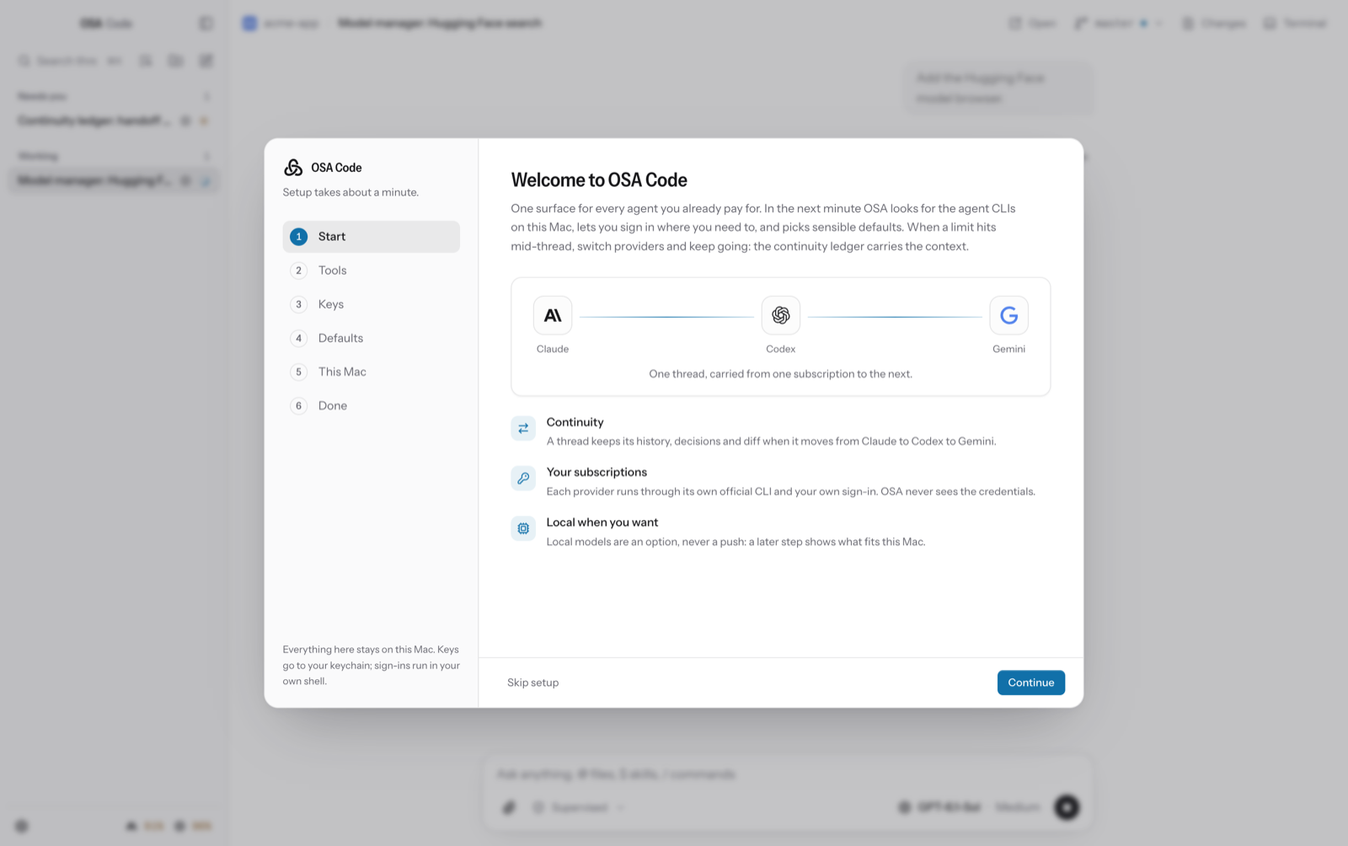
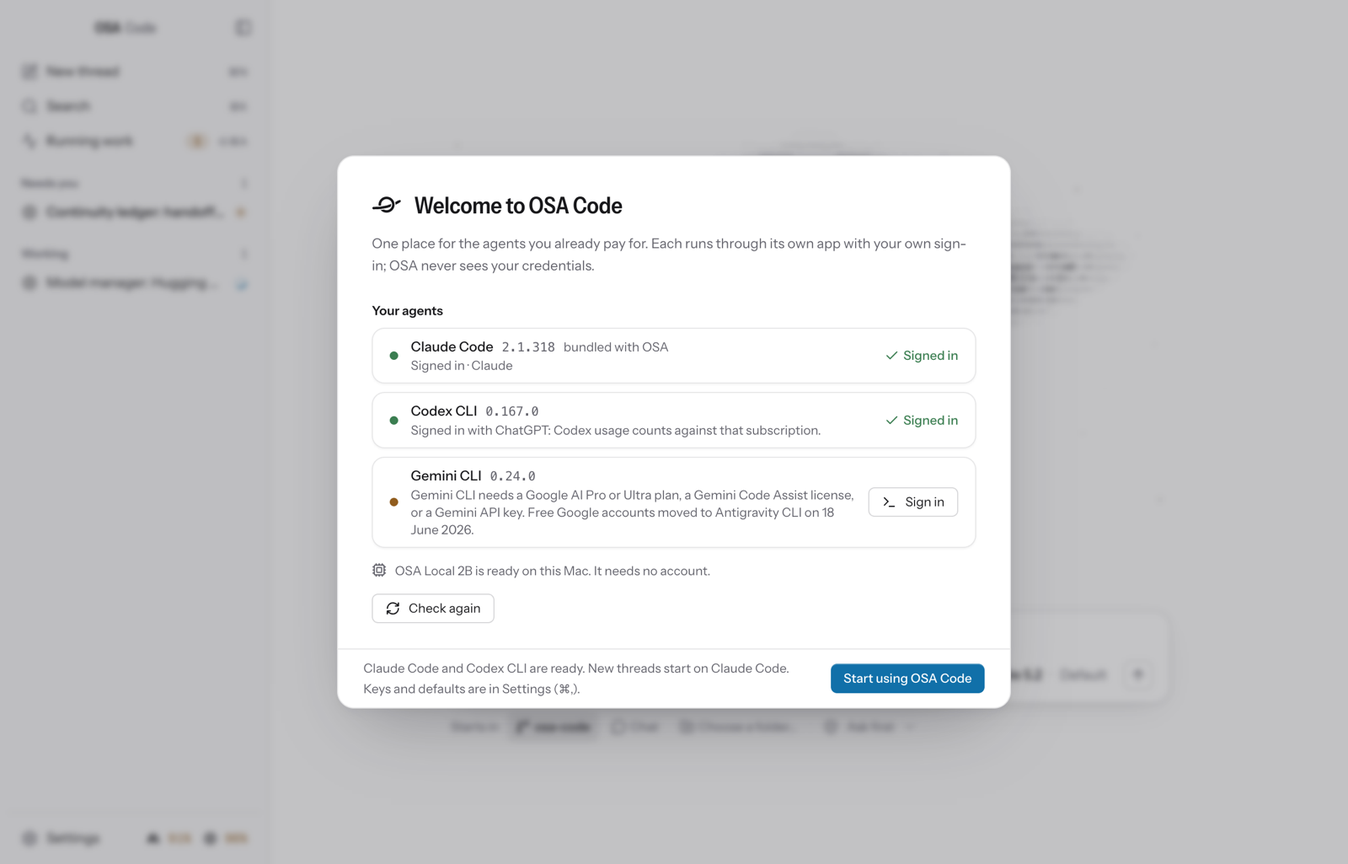
README for 0.5.0: two interfaces, the black-hole launch, chat with search and deep research, dictation, Running work, review, permissions, the browser and screen tools, privacy; thirty images in light and dark

diff --git a/README.md b/README.md
@@ -1,29 +1,44 @@
 # OSA Code
 
-One Mac app for the AI coding agents you already pay for, plus local models, with one continuity ledger that moves a thread to the next provider when a limit hits.
+One Mac app for the AI agents you already pay for (Claude Code, Codex and Gemini CLI) and for models that run on your Mac. Use it for code in a project folder or as an everyday chat. When one subscription hits its limit, the thread carries on with the next.
 
-OSA Code runs the official harnesses under your own sign-ins (Claude Code, Codex, Gemini CLI and other ACP agents) and its own agent for local models. Every thread keeps a ledger of the task, the decisions, the files touched and the plan, so when one subscription runs out the next provider picks up from where it stopped. For Apple silicon Macs on macOS 14 or newer.
+OSA Code runs each provider's own harness under your own sign-in, and its own agent for local models. Every thread keeps a ledger of the task, the decisions, the files touched and the plan, and that ledger is what moves with a thread when it changes provider. For Apple silicon Macs on macOS 14 or newer. It is an early developer build, and it is unsigned.
 
 <p align="center">
 <picture>
   <source media="(prefers-color-scheme: dark)" srcset="docs/assets/readme/newthread-dark.png">
-  <img src="docs/assets/readme/newthread-light.png" alt="The New thread screen: OSA Code's mark, Choose a folder and New chat, a recent project, and the composer ready on Opus 5.5." width="100%">
+  <img src="docs/assets/readme/newthread-light.png" alt="The New thread screen: OSA Code's black hole drawn in text, the message box under it on Fable 5.2, and one line that says where the message will start: a project, Chat, or Choose a folder." width="100%">
 </picture>
 </p>
 
-## Features
+## What it does
 
-- **Every subscription, one surface.** Claude Code, Codex, Gemini and any Agent Client Protocol agent, with usage meters per subscription and a fallback order. A thread moves between them with a handoff packet built from its ledger.
-- **OSA Local 2B and other local models.** The default local model downloads itself when the Mac can run it; a Hugging Face browser says what fits before you download anything else.
-- **Threads and chats.** Projects or folder-free chats, plan mode, edit and retry with versions, fork, search, Rules for permission cards, and a repository map.
-- **Documents.** Word, Excel, PowerPoint and PDF files made in any thread, on any provider, with Open and Preview.
-- **Computer use.** A thread can work inside Mac apps without taking your mouse or keyboard, after you allow each app.
-- **Browser (your Chrome).** Threads browse in a window of their own inside your Chrome: your sign-ins work, and the agent sees only its own tabs.
+- **Every subscription in one place.** Claude Code, Codex and Gemini CLI, with a usage meter for each and a fallback order. A thread moves between them with a handoff packet built from its ledger.
+- **Two interfaces.** Classic has the sidebar on the left and one thread at a time. Workbench has a tab for each open thread and a Home page. Switch in Settings, in the View menu or in ⌘K.
+- **An everyday chat.** A chat needs no folder. It searches the web when a question needs it, lists its sources, and can run deep research: a plan first, then a cited report.
+- **Projects.** Worktrees, checkpoints and diffs, plan mode, review comments on the diff, Revert File, a terminal, git and pull requests.
+- **Running work.** One page for every thread that needs you, is working, hit a limit or just finished.
+- **Permissions you can shape.** Answer a card once, for the session, or with a rule you see before it is saved. Decline with a reason the agent reads.
+- **Dictation** on macOS 26 or newer, turned into text on your Mac.
+- **Local models.** OSA Local 2B downloads itself when the Mac can run it, and a Hugging Face browser says what fits before you download anything else.
+- **Documents.** Word, Excel, PowerPoint and PDF files made in any thread, on any provider.
+- **Computer use and your Chrome.** A thread can work inside Mac apps and in a Chrome window of its own, after you allow it.
 
 <table>
 <tr>
-<td width="50%"><picture><source media="(prefers-color-scheme: dark)" srcset="docs/assets/readme/thread-dark.png"><img src="docs/assets/readme/thread-light.png" alt="A thread that moved from Claude to Codex when Claude hit its usage limit: the handoff line, the tool calls, and a card asking to run a command."></picture></td>
-<td width="50%"><picture><source media="(prefers-color-scheme: dark)" srcset="docs/assets/readme/picker-dark.png"><img src="docs/assets/readme/picker-light.png" alt="The model picker: Claude's and Codex's models with a line on each, and Manage models at the bottom."></picture></td>
+<td width="50%"><picture><source media="(prefers-color-scheme: dark)" srcset="docs/assets/readme/thread-dark.png"><img src="docs/assets/readme/thread-light.png" alt="A thread that moved from Claude to Codex when Claude hit its usage limit: the handoff line, a file written, and a card asking to run a command with Allow once, Allow this session, Always allow and Decline."></picture></td>
+<td width="50%"><picture><source media="(prefers-color-scheme: dark)" srcset="docs/assets/readme/picker-dark.png"><img src="docs/assets/readme/picker-light.png" alt="The model picker: a search field, a rail with Claude, Codex, Gemini and Local, and Codex's models, each with what it is for, the chosen one checked."></picture></td>
+</tr>
+</table>
+
+## Two interfaces
+
+Classic is the default. Workbench puts a tab for each open thread along the top, with Home on the left of the strip and Running work on the right. Home is one column: a search, your projects, the threads that need you (a command can be answered right there), the ones you pinned, and the rest. Tabs come back after a restart. Choose in **Settings → General → Appearance → Interface**, in **View → Interface**, or in ⌘K. Switching keeps the open thread, its scroll position and what you have typed.
+
+<table>
+<tr>
+<td width="50%"><picture><source media="(prefers-color-scheme: dark)" srcset="docs/assets/readme/workbench-home-dark.png"><img src="docs/assets/readme/workbench-home-light.png" alt="Workbench's Home: a search, two projects, a thread that needs you with Allow once, Allow this session and Decline, a pinned thread and four recent ones."></picture></td>
+<td width="50%"><picture><source media="(prefers-color-scheme: dark)" srcset="docs/assets/readme/workbench-thread-dark.png"><img src="docs/assets/readme/workbench-thread-light.png" alt="A thread in Workbench: three tabs along the top, the first waiting on a card, and a quiet line at the foot with the context and the weekly usage."></picture></td>
 </tr>
 </table>
 
@@ -34,14 +49,14 @@ OSA Code runs the official harnesses under your own sign-ins (Claude Code, Codex
    ```bash
    xattr -d com.apple.quarantine "/Applications/OSA Code.app"
    ```
-3. The setup wizard finds the agent CLIs on your PATH (`claude`, `codex`, `gemini`, …), lets you sign in to each from a built-in terminal, takes API keys if you use them, and suggests local models that fit your Mac.
+3. Setup is one screen. It lists the three agents OSA runs (`claude`, `codex`, `gemini`), says what is true of each on this Mac, and gives each one thing to do: Sign in, Install, or the vendor's install page. Then Start. API keys, the fallback order and local models are in Settings.
 
-Release notes: [0.4.0](https://github.com/devartin/osa-code-releases/releases/tag/v0.4.0).
+Release notes: [0.5.0](https://github.com/devartin/osa-code-releases/releases/tag/v0.5.0). Earlier releases: [0.4.0](https://github.com/devartin/osa-code-releases/releases/tag/v0.4.0), [0.3.0](https://github.com/devartin/osa-code-releases/releases/tag/v0.3.0).
 
 <p align="center">
 <picture>
   <source media="(prefers-color-scheme: dark)" srcset="docs/assets/readme/onboarding-dark.png">
-  <img src="docs/assets/readme/onboarding-light.png" alt="The setup wizard's first step: Claude, Codex and Gemini, and what continuity, your subscriptions and local models mean in OSA." width="80%">
+  <img src="docs/assets/readme/onboarding-light.png" alt="Setup on one screen: Claude Code and Codex CLI signed in, Gemini CLI with a Sign in button, a line saying OSA Local 2B is ready, Check again, and Start using OSA Code." width="80%">
 </picture>
 </p>
 
@@ -51,40 +66,77 @@ OSA Code updates itself: it checks the [releases](https://github.com/devartin/os
 
 ## Providers and subscriptions
 
-- **Claude** runs through Claude Code itself: the copy bundled with OSA or your own install, whichever is newer and signed in (a tie goes to your install), with your own Claude Code sign-in or an API key. On the sign-in, usage draws from your Claude subscription limits. Settings → Providers says which copy runs; OSA never downloads or updates Claude Code.
+- **Claude** runs through Claude Code itself: the copy bundled with OSA or your own install, whichever is newer and signed in (a tie goes to your install). Your Claude subscription is the recommended sign-in and the one a new install starts on, and usage then draws from its limits. An API key is the other choice: one set in your shell is not used, or billed, unless you choose "An API key" in Settings → Providers. Settings → Providers says which copy runs and who pays. OSA never downloads or updates Claude Code.
 - **Codex** runs through `codex app-server` and your own `codex login`.
-- **Gemini CLI** and other agents that speak the Agent Client Protocol run as they are installed.
+- **Gemini CLI** runs as it is installed, through the Agent Client Protocol, with the sign-in you already set up for it. Gemini CLI itself decides who may sign in; Settings → Providers says what it needs.
 - **Fallback.** Settings sets the order. When a subscription hits its limit, the thread continues on the next one with a handoff packet: the task, the decisions, the files touched, the diff since the last checkpoint and the remaining plan.
-- **Usage** is counted per turn and per subscription, and says "not reported" rather than zero.
+- **Usage** is counted per turn and per subscription, and says "not reported" rather than zero. A gauge in the menu bar lists each provider's limits and when they reset; Settings → General → On your Mac turns it off.
 
-## Threads and chats
+## Chat, search and deep research
 
-- **New thread** starts in a project folder or as a chat with no folder. A chat gets the same thread view, streaming, usage and handoff. Git, Changes, worktrees, checkpoints, plan mode, the repository map and the after-edit check need a folder, so they are off in a chat.
-- **In a project:** plan mode has the agent plan first and wait for your go before it edits anything, and the repository map gives the agent an outline of the project.
-- **Rules** (Settings → Rules) answer permission cards by tool and path, and run commands after edits.
-- **Edit and retry** an earlier message on the same model or another; earlier versions stay one click away.
-- **Fork** copies a thread up to any answer into a thread of its own.
-- **Search (⇧⌘F)** finds words in every thread on this Mac, and **⌘K** finds threads and runs commands.
-- **Model and level** (⌘E, ⇧⌘E). Levels OSA cannot yet confirm are marked unverified.
-- Worktrees per thread, checkpoints and diffs, a terminal, git and pull requests, skills and slash commands from every harness, attachments, KaTeX math and Mermaid diagrams, and MCP connectors.
+- **A chat starts as a conversation.** It is in Chat only, and acts on your Mac only when you switch its mode on the thread's label.
+- **Search is built in.** A chat on Claude or Codex searches the web when the question needs it, and each chat has its own switch in the **+** menu. Gemini CLI searches on its own. A local model cannot search, and says so.
+- **Sources.** An answer that cites pages ends in a "Sources" row with each page's title and site, and says which ones the turn opened.
+- **Deep research** (the **+** menu, or `/research`). Your next message gets a plan and a card that says what a run may use. Nothing is searched or spent until you press Start research. A run works in its own session, shows its searches and pages as it goes, stops at its budget, and ends in a cited report you can save as Markdown. It runs on Claude only.
+- **Continue in Chat** and **Continue in Project…** carry a conversation from a project into a chat or the other way, as a new thread.
 
 <table>
 <tr>
-<td width="50%"><picture><source media="(prefers-color-scheme: dark)" srcset="docs/assets/readme/changes-dark.png"><img src="docs/assets/readme/changes-light.png" alt="The Changes panel: the thread's edits to two files as a diff against its last checkpoint."></picture></td>
+<td width="50%"><picture><source media="(prefers-color-scheme: dark)" srcset="docs/assets/readme/sources-dark.png"><img src="docs/assets/readme/sources-light.png" alt="A chat that searched once and read one page: the answer with numbered markers, and a Sources row listing three pages, one marked from search results and one not opened here."></picture></td>
+<td width="50%"><picture><source media="(prefers-color-scheme: dark)" srcset="docs/assets/readme/research-dark.png"><img src="docs/assets/readme/research-light.png" alt="A deep research report in a chat: headed sections with source markers, a Sources row, a line with the time, searches, pages and tokens, and Save as Markdown."></picture></td>
+</tr>
+</table>
+
+## Threads and projects
+
+- **New thread** has one message box and one line under it that says where the message will go: a recent project, Chat, or a folder you choose. Git, Changes, worktrees, checkpoints, plan mode, the repository map and the after-edit check need a folder, so they are off in a chat.
+- **Modes.** Chat only, Plan, Ask first and Full access, on the thread's label. Plan mode has the agent plan first and wait for your go, and **Keep planning…** sends the plan back with a note.
+- **Permission cards.** Allow once, Allow this session, **Always allow…** (a rule built from the call, which you see and can edit before it is saved) or **Decline…** with what the agent should do instead. **Rules** (Settings → Rules) allow, ask or deny by tool, command and path, and run commands after edits.
+- **Review.** The Changes panel (⇧⌘D) shows all changes, this turn, or what changed since you last looked. Comment on a line of the diff and the comments go to the agent with your next message. **Revert File** puts one file back, with a snapshot first and Undo.
+- **Running work** (⇧⌘A) lists every thread that needs you, hit a limit, is working, has messages waiting or just finished. A short command can be allowed or declined from its row.
+- **Edit and retry** an earlier message on the same model or another; earlier versions stay one click away. **Fork** copies a thread up to any answer into a thread of its own.
+- **Finding things.** ⌘K finds threads and runs commands, ⇧⌘F searches every thread's messages on this Mac, and ⌘F finds in the thread on screen. Help → Keyboard Shortcuts (⌘/) lists every key.
+- **Attention.** Unread threads, notifications, a Dock badge and Next Thread That Needs You (⌃⌘N) all follow one rule for what a thread asks of you.
+- **Model and level** (⌘E, ⇧⌘E). Levels OSA cannot confirm are not offered.
+- Rename, pin, archive and delete threads; a draft kept per thread; worktrees per thread; a terminal; skills and slash commands from every harness; attachments; KaTeX math and Mermaid diagrams; and MCP connectors.
+
+<p align="center">
+<picture>
+  <source media="(prefers-color-scheme: dark)" srcset="docs/assets/readme/work-dark.png">
+  <img src="docs/assets/readme/work-light.png" alt="Running work: one thread that needs you with its command and Allow once, Allow this session and Decline; one out of usage with its reset; five working on Gemini, Codex, Claude and OSA Local 2B; and one queued." width="80%">
+</picture>
+</p>
+
+<table>
+<tr>
+<td width="50%"><picture><source media="(prefers-color-scheme: dark)" srcset="docs/assets/readme/changes-dark.png"><img src="docs/assets/readme/changes-light.png" alt="The Changes panel beside a thread: All changes, This turn and Since you last looked, three changed files, and the diff of two of them."></picture></td>
 <td width="50%"><picture><source media="(prefers-color-scheme: dark)" srcset="docs/assets/readme/document-dark.png"><img src="docs/assets/readme/document-light.png" alt="A report the agent wrote, open in Preview beside the thread, after OSA sent a failed check back and the agent fixed it."></picture></td>
 </tr>
 </table>
 
+## Dictation
+
+On macOS 26 or newer, the microphone button in the message box (or ⌘D) turns your speech into text there. Press it again, or Return, and the words are in the box to read, fix and send; Escape cancels. Nothing is sent on its own. It stops by itself after a minute with no speech, or at ten minutes. Settings → General → Dictation turns it off, picks the language, and shows the Microphone permission, which macOS asks for once. On macOS 14 and 15 macOS's own Dictation (Edit → Start Dictation) works in the message box.
+
+Dictation runs on your Mac. While you dictate, OSA passes the microphone's sound to macOS's speech recognizer on this Mac and puts the words in the message box. Nothing is recorded to disk, no audio leaves your Mac, and nothing is sent until you send the message yourself. The first time you dictate in a language macOS hasn't installed, macOS downloads that language's speech model from Apple; your speech is not part of that download.
+
+<p align="center">
+<picture>
+  <source media="(prefers-color-scheme: dark)" srcset="docs/assets/readme/dictation-dark.png">
+  <img src="docs/assets/readme/dictation-light.png" alt="Dictation in a thread's message box: the microphone button lit beside Send, a cancel button, and a line with the words still being heard." width="80%">
+</picture>
+</p>
+
 ## OSA Local 2B
 
-The default local model, by Charles Shaw. About 1.3 GB, with tool calls and a long context (Auto gives it 128K on a 16 GB Mac and 64K on 8 GB), tuned on OSA's own harness. It is released separately under the Apache License 2.0: the model file, LICENSE, NOTICE and model card are in the [osa-local-2b-v1 release](https://github.com/devartin/osa-code-releases/releases/tag/osa-local-2b-v1). It downloads itself when the Mac can run it, and Settings → Models has the switch to turn that off. Copies of the previous default already downloaded stay selectable.
+The default local model, by Charles Shaw. About 1.3 GB, with tool calls and a long context (Auto gives it 128K on a 16 GB Mac and 64K on 8 GB), tuned on OSA's own harness. It is good for small, concrete tasks in a folder; long multi-step builds are better on a subscription, and the app says so. It is released separately under the Apache License 2.0: the model file, LICENSE, NOTICE and model card are in the [osa-local-2b-v1 release](https://github.com/devartin/osa-code-releases/releases/tag/osa-local-2b-v1). It downloads itself when the Mac can run it, and Settings → Models has the switch to turn that off.
 
-Every local model runs through OSA's own agent on node-llama-cpp (Metal on Apple silicon), with the same tools, cards and handoffs as the subscriptions.
+Every local model runs through OSA's own agent on node-llama-cpp (Metal on Apple silicon), with OSA's coding and plan tools and the same cards and handoffs as the subscriptions. Local models get no screen or browser tools, and cannot search the web.
 
 <p align="center">
 <picture>
   <source media="(prefers-color-scheme: dark)" srcset="docs/assets/readme/models-dark.png">
-  <img src="docs/assets/readme/models-light.png" alt="The Models page: OSA Local 2B installed, and first among the models recommended for this Mac." width="80%">
+  <img src="docs/assets/readme/models-light.png" alt="The Models page: OSA Local 2B installed with the context it will use, and first among the models recommended for this Mac." width="80%">
 </picture>
 </p>
 
@@ -94,29 +146,38 @@ In any thread, `$osa-docx`, `$osa-xlsx`, `$osa-pptx` and `$osa-pdf` make Word do
 
 ## Computer use
 
-A thread in build mode can work inside Mac apps (macOS 14 or newer), on any provider: Claude hosts the tools in-process, and Codex, Gemini and other ACP agents reach them through a bridge OSA registers for the thread. One card per thread lists the apps it wants and each app's tier (read, click or full), and nothing happens until you allow it. It captures only the window it is working in and clicks and types there without moving your mouse, so you keep using the Mac; if you take the mouse or keyboard, it pauses. Sends, payments, deletions and uploads are confirmed with you first, and password fields are never typed into. A handoff carries the grants, and the next provider asks once to keep them.
+A thread that may act can work inside Mac apps (macOS 14 or newer), on Claude, Codex or Gemini: Claude hosts the tools in-process, and Codex and Gemini reach them through a bridge OSA registers for the thread. Local models have no screen tools. One card per thread lists the apps it wants and each app's tier (read, click or full), and nothing happens until you allow it. It captures only the window it is working in and clicks and types there without moving your mouse, so you keep using the Mac; if you take the mouse or keyboard, it pauses. Sends, payments, deletions and uploads are confirmed with you first, and password fields are never typed into. A handoff carries the grants, and the next provider asks once to keep them.
 
 macOS asks once for **Accessibility** and **Screen Recording**; Settings → General shows both and has the switch that turns computer use off.
 
 <p align="center">
 <picture>
   <source media="(prefers-color-scheme: dark)" srcset="docs/assets/readme/screen-dark.png">
-  <img src="docs/assets/readme/screen-light.png" alt="The Screen card: the app the agent may use (TextEdit), its latest capture, what it is doing, and Stop and Take over." width="80%">
+  <img src="docs/assets/readme/screen-light.png" alt="The Screen card beside a thread: the app the agent may use (TextEdit), its latest capture, what it is doing, and Stop and Take over." width="80%">
 </picture>
 </p>
 
-**Browser (your Chrome).** Turn it on in Settings → Connectors → Browser, load the extension that ships in the app (Settings names the folder), and paste its id back. The agent sees only the OSA window and its tabs, stops for you to sign in when a page needs it, and confirms submits, sends, payments and uploads first.
+## Browser (your Chrome)
+
+Threads browse in a window of their own inside your Google Chrome: your sign-ins work, and the agent sees only the OSA window and its tabs. It stops for you to sign in when a page needs it, and confirms submits, sends, payments and uploads first. A question the page itself asks (a confirm, a prompt, "leave this page?") comes to you as a card with the page's words and the page's own two answers; nothing of the kind is accepted for you.
+
+Setup is two steps in **Settings → Connectors → Browser**: Open extensions page (turn on Developer mode there), then Copy folder path and Load unpacked on the extension that ships in the app. There is no id to paste back. It needs Google Chrome; other Chromium browsers are not set up. The browser tools in this release have not yet been run against a real Chrome on the build machine: see the [0.5.0 notes](https://github.com/devartin/osa-code-releases/releases/tag/v0.5.0).
+
+<p align="center">
+<picture>
+  <source media="(prefers-color-scheme: dark)" srcset="docs/assets/readme/pagequestion-dark.png">
+  <img src="docs/assets/readme/pagequestion-light.png" alt="A thread with the Browser card and two cards waiting: Run this command, and This page asks, quoting the page's question with OK and Cancel." width="80%">
+</picture>
+</p>
 
 ## Privacy
 
-API keys are stored in the macOS keychain through Electron's safeStorage and reach only their own provider. OSA never sees or stores your Claude credentials. Nothing leaves the Mac except to the provider you chose for a thread, the update feed on GitHub, and the model files you choose to download. Screen captures stay under the OSA home (`~/.osa-code`).
-
-
+API keys are kept encrypted in the OSA home (`~/.osa-code/secrets.json`), with the key that unlocks them held in the macOS keychain (Electron's safeStorage), and reach only their own provider. OSA never sees or stores your Claude sign-in: Claude Code keeps it. OSA sends a thread's conversation, with the files and screen captures the agent reads, to the provider the thread is on and to nobody else. What the agent then does can reach further, as it would from a terminal: the provider or the browser fetches the pages a thread searches or opens, a connector you add is sent what the agent passes to it, and a command the agent runs on your Mac (after you allow it, or in Full access) contacts whatever that command contacts. OSA itself also contacts GitHub (the update feed, and OSA Local 2B's download, which starts by itself unless you turn it off in Settings → Models), your project's git remote when you push, GitHub through the `gh` CLI for a pull request (when you open one, and once a minute to check the one of the thread on screen), and Hugging Face (what you type in the model browser, and the models you download there). Each agent's own CLI talks to its vendor as it does when you run it yourself: its sign-in, its models, its limits, and any update check or usage reporting of its own. macOS fetches a dictation language from Apple the first time you use it. OSA itself sends no telemetry. Screen captures are kept under the OSA home (`~/.osa-code`) and go nowhere but to the thread's provider. Dictation's audio never leaves the Mac and is never written to disk.
 
 ## Licence
 
-OSA Code is MIT licensed. OSA Local 2B is released separately under the Apache License 2.0 (licence and NOTICE in its release). Instrument Sans is under the SIL Open Font License.
+OSA Code is MIT licensed. OSA Local 2B is released separately under the Apache License 2.0 (licence and NOTICE in its release). Instrument Sans and Pixelify Sans are under the SIL Open Font License.
 
 ## Credits
 
-Built on the [Claude Agent SDK](https://github.com/anthropics/claude-agent-sdk-typescript), [node-llama-cpp](https://github.com/withcatai/node-llama-cpp) and [llama.cpp](https://github.com/ggml-org/llama.cpp), [Electron](https://www.electronjs.org), [KaTeX](https://katex.org), [Mermaid](https://mermaid.js.org), [Shiki](https://shiki.style) and [Instrument Sans](https://github.com/Instrument/instrument-sans).
+Built on the [Claude Agent SDK](https://github.com/anthropics/claude-agent-sdk-typescript), [node-llama-cpp](https://github.com/withcatai/node-llama-cpp) and [llama.cpp](https://github.com/ggml-org/llama.cpp), [Electron](https://www.electronjs.org), [KaTeX](https://katex.org), [Mermaid](https://mermaid.js.org), [Shiki](https://shiki.style), [Instrument Sans](https://github.com/Instrument/instrument-sans) and [Pixelify Sans](https://github.com/eifetx/Pixelify-Sans).
